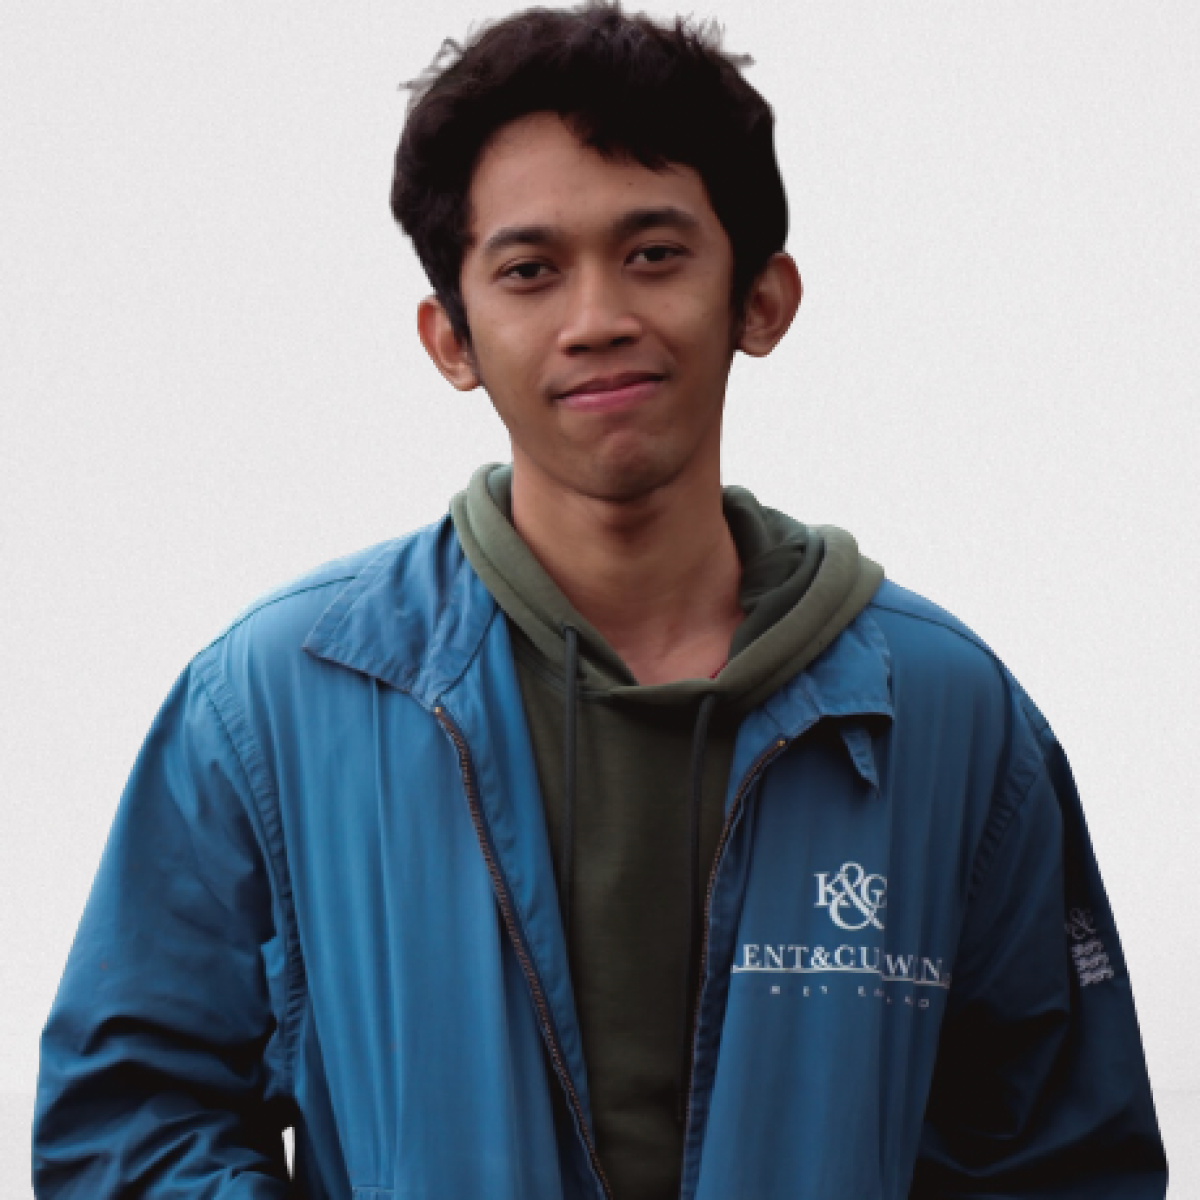
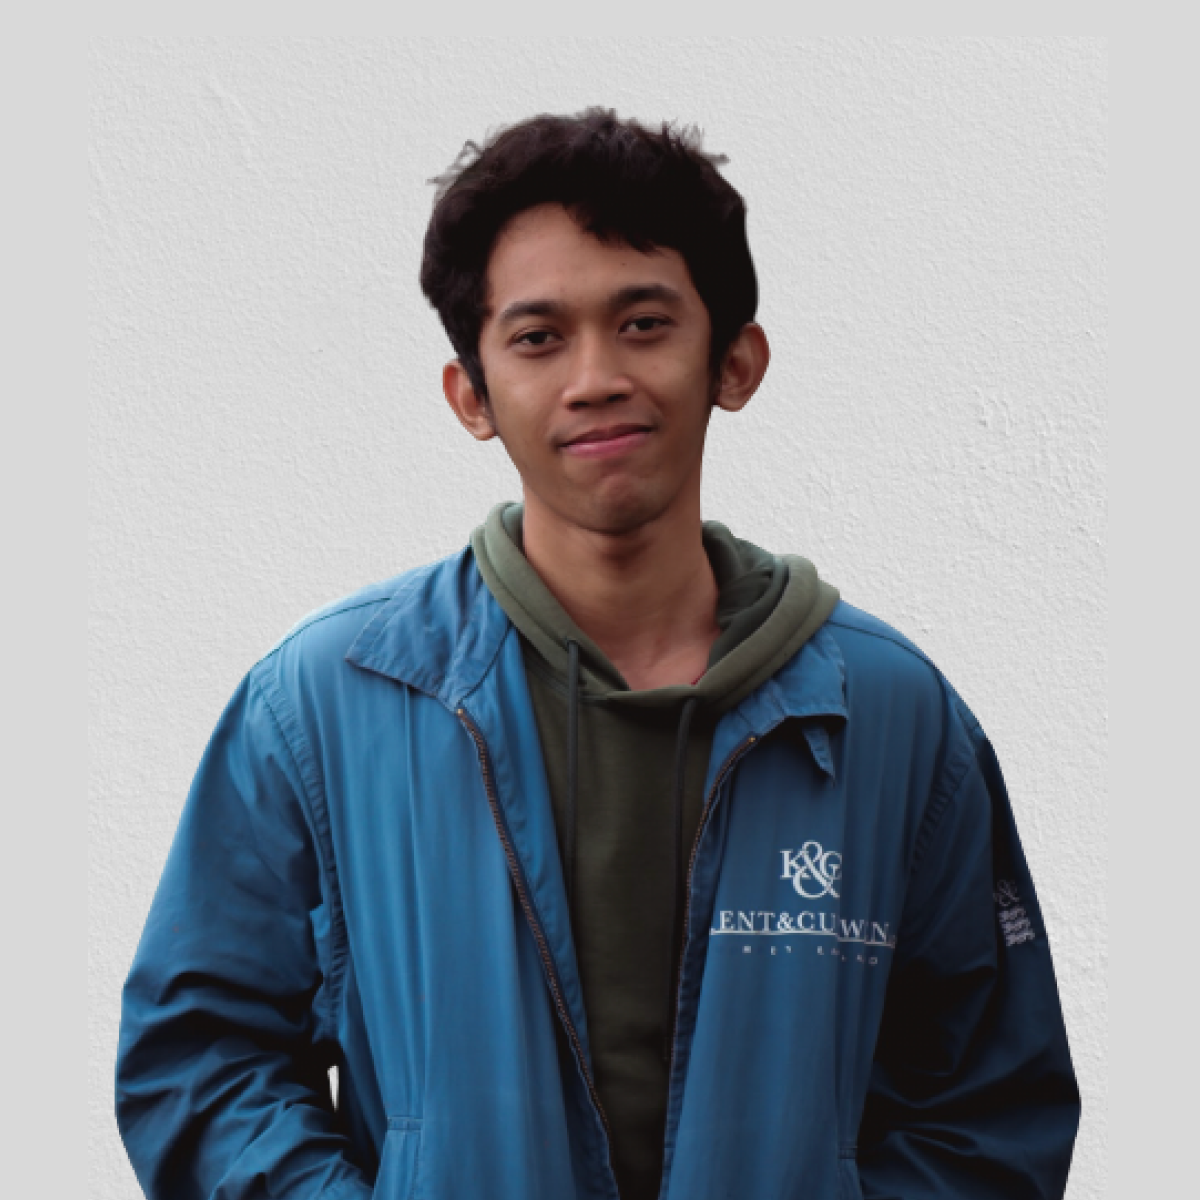
Add: About

diff --git a/src/components/about/Experience.jsx b/src/components/about/Experience.jsx
@@ -2,25 +2,28 @@ import React from "react";
 
 const experienceContent = [
   {
-    year: "   2018 - Present",
-    position: " Web Developer",
-    compnayName: "Envato",
-    details: `  Lorem ipsum dolor sit amet, consectetur tempor incididunt ut labore
-        adipisicing elit`,
+    year: "   July 2021 - Present",
+    position: "Mobile Application Developer",
+    compnayName: "Visionet Data Internasional",
+    details: `Bug fixing and maintenance of existing mobile applications. Update new features and release on PlayStore and AppStore. Collaborate with BE, BA, and QA.`,
   },
   {
-    year: "2013 - 2018",
-    position: " UI/UX Designer",
-    compnayName: "Themeforest",
-    details: `Lorem incididunt dolor sit amet, consectetur eiusmod dunt doldunt dol
-        elit, tempor incididunt`,
+    year: "April 20220 - July 2021",
+    position: "Mobile Application Developer",
+    compnayName: "Permata Indo Sejahtera",
+    details: `Revamp and release TopCareer mobile app from webview to react native. Revamp and release Spotcheck Sales Monitoring mobile app from java to react native. Build hospitality mobile app using react native. Create Restfull-API Create UI Design using Figma. Collaborate with 2-3 developers.`,
   },
   {
-    year: "2005 - 2013",
-    position: "Consultant",
-    compnayName: "Videohive",
-    details: `Lorem ipsum dolor sit amet, tempor incididunt ut laboreconsectetur
-        elit, sed do eiusmod tempor duntt`,
+    year: "July 2018 - March 2020",
+    position: "Web Developer",
+    compnayName: "Permata Indo Sejahtera",
+    details: `Build and maintenance report system base on web. Build inventory system for internal project. Handle 3 client & 7 project web base. Collaborate with 2-3 developers.`,
+  },
+  {
+    year: "Jan 2017 - Nov 2017",
+    position: "Search Engine Optimization Specialist",
+    compnayName: "TopCareer",
+    details: `Research & Analyst keywords. Planing and executing SEO strategies (on-page and off-page). Perform analysis base on Social Media and Google Analytics.`,
   },
 ];
 

diff --git a/src/components/about/About.jsx b/src/components/about/About.jsx
@@ -34,10 +34,9 @@ const About = () => {
               </p>
             </div>
             <div className="my_skills">
-              <h3 className="title">What is my skill level?</h3>
+              <h3 className="title">Skill</h3>
               <p className="desc">
-                Lorem ipsum dolor sit amet, consectetur adipiscing elit. Mauris
-                ipsum sit nibh amet egestas tellus.
+              Ability to design and develop web or mobile application. Experience with hybrid mobile app development (React Native). Familiar with Version Control (GIT). Experience to create and develop RestAPI.
               </p>
               <div className="wrapper">
                 <div className="dodo_progress">
@@ -65,7 +64,7 @@ const About = () => {
                 className="main"
                 style={{
                   backgroundImage: `url(${
-                    process.env.PUBLIC_URL + "img/about/2.jpg"
+                    process.env.PUBLIC_URL + "img/about/2.png"
                   })`,
                 }}
                 data-aos="fade-left"

diff --git a/src/components/about/Education.jsx b/src/components/about/Education.jsx
@@ -2,25 +2,10 @@ import React from "react";
 
 const educationContent = [
   {
-    year: "2015",
-    degree: "ENGINEERING DEGREE",
-    institute: "OXFORD UNIVERSITY",
-    details: `  Lorem ipsum dolor sit amet, consectetur tempor incididunt ut labore
-        adipisicing elit`,
-  },
-  {
-    year: "2012",
-    degree: "MASTER DEGREE",
-    institute: "KIEV UNIVERSITY",
-    details: `Lorem incididunt dolor sit amet, consectetur eiusmod dunt doldunt dol
-        elit, tempor incididunt`,
-  },
-  {
-    year: "2009",
-    degree: "BACHELOR DEGREE ",
-    institute: "TUNIS HIGH SCHOOL",
-    details: `Lorem ipsum dolor sit amet, tempor incididunt ut laboreconsectetur
-        elit, sed do eiusmod tempor duntt`,
+    year: "2022",
+    degree: "INFORMATICS",
+    institute: "UNIVERSITY OF PAMULANG",
+    details: `3.3 / 4`,
   },
 ];
 

diff --git a/src/components/about/PersonalInfo.jsx b/src/components/about/PersonalInfo.jsx
@@ -1,16 +1,12 @@
 import React from "react";
 
 const personalInfoContent = [
-  { meta: "first name", metaInfo: "Rokers " },
-  { meta: "last name", metaInfo: "Nelson" },
-  { meta: "Age", metaInfo: "25 Years" },
-  { meta: "Nationality", metaInfo: "USA" },
+  { meta: "first name", metaInfo: "Andi " },
+  { meta: "last name", metaInfo: "Rustianto" },
   { meta: "Freelance", metaInfo: "Available" },
-  { meta: "Address", metaInfo: "New York" },
-  { meta: "phone", metaInfo: "+3456374647" },
-  { meta: "Email", metaInfo: "you@mail.com" },
-  { meta: "Skype", metaInfo: " rokers.nelson" },
-  { meta: "langages", metaInfo: "French, English" },
+  { meta: "Address", metaInfo: "Jakarta, Indonesia" },
+  { meta: "phone", metaInfo: "+6285881160601" },
+  { meta: "Email", metaInfo: "anditodev46@mail.com" },
 ];
 
 const PersonalInfo = () => {

diff --git a/src/components/about/Achievements.jsx b/src/components/about/Achievements.jsx
@@ -1,10 +1,10 @@
 import React from "react";
 
 const achievementsContent = [
-  { title: "06", subTitle1: "years of", subTitle2: "Experience" },
-  { title: "97", subTitle1: "Completed", subTitle2: "Projects" },
-  { title: "81", subTitle1: "Happy", subTitle2: "Customers" },
-  { title: "53", subTitle1: "Most awards ", subTitle2: "Winner" },
+  { title: "04", subTitle1: "years of", subTitle2: "Experience" },
+  { title: "07", subTitle1: "Completed", subTitle2: "Projects" },
+  { title: "06", subTitle1: "Completed", subTitle2: "Certifications" },
+  // { title: "06", subTitle1: "Completed ", subTitle2: "Training" },
 ];
 
 const Achievements = () => {

diff --git a/src/components/Address.jsx b/src/components/Address.jsx
@@ -30,7 +30,10 @@ const Address = () => {
             <h3>Email</h3>
             <ul>
               <li>
-                <a href="mailto:ib-themes21@gmail.com">anditodev46@gmail.com</a>
+                <a href="mailto:anditodev46@gmail.com">anditodev46@gmail.com</a>
+              </li>
+              <li>
+                <a href="mailto:andirustianto46@gmail.com">andirustianto46@gmail.com</a>
               </li>
             </ul>
           </div>{" "}
